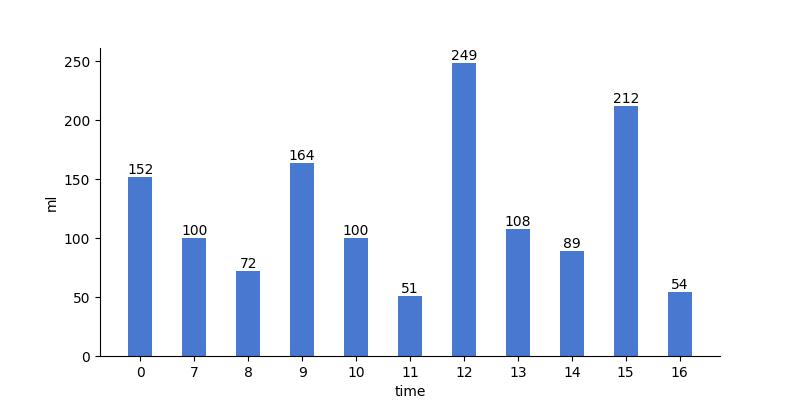
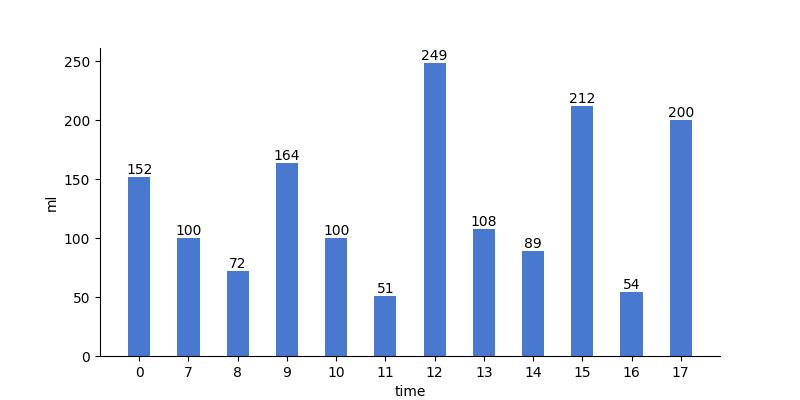
update

diff --git a/README.md b/README.md
@@ -5,12 +5,12 @@
 
 | 今日总饮水量 | 每小时平均饮水量 |
 | :----: | :----: |
-| 1351 | 122 |
+| 1551 | 129 |
 </div>
 
-| 日期 | 00:09:50 | 00:19:53 | 07:55:27 | 08:26:50 | 09:03:45 | 09:24:15 | 09:42:45 | 10:11:50 | 10:45:26 | 11:15:22 | 12:21:37 | 12:51:54 | 13:33:10 | 13:49:56 | 14:33:01 | 15:04:42 | 15:27:51 | 15:57:33 | 16:27:35 |
-| :----: | :----: | :----: | :----: | :----: | :----: | :----: | :----: | :----: | :----: | :----: | :----: | :----: | :----: | :----: | :----: | :----: | :----: | :----: | :----: |
-| 2022-02-24 | 91 | 61 | 100 | 72 | 60 | 38 | 66 | 42 | 58 | 51 | 200 | 49 | 61 | 47 | 89 | 109 | 52 | 51 | 54 |
+| 日期 | 00:09:50 | 00:19:53 | 07:55:27 | 08:26:50 | 09:03:45 | 09:24:15 | 09:42:45 | 10:11:50 | 10:45:26 | 11:15:22 | 12:21:37 | 12:51:54 | 13:33:10 | 13:49:56 | 14:33:01 | 15:04:42 | 15:27:51 | 15:57:33 | 16:27:35 | 17:27:11 |
+| :----: | :----: | :----: | :----: | :----: | :----: | :----: | :----: | :----: | :----: | :----: | :----: | :----: | :----: | :----: | :----: | :----: | :----: | :----: | :----: | :----: |
+| 2022-02-24 | 91 | 61 | 100 | 72 | 60 | 38 | 66 | 42 | 58 | 51 | 200 | 49 | 61 | 47 | 89 | 109 | 52 | 51 | 54 | 200 |
 
 # 近30日饮水数据
 
